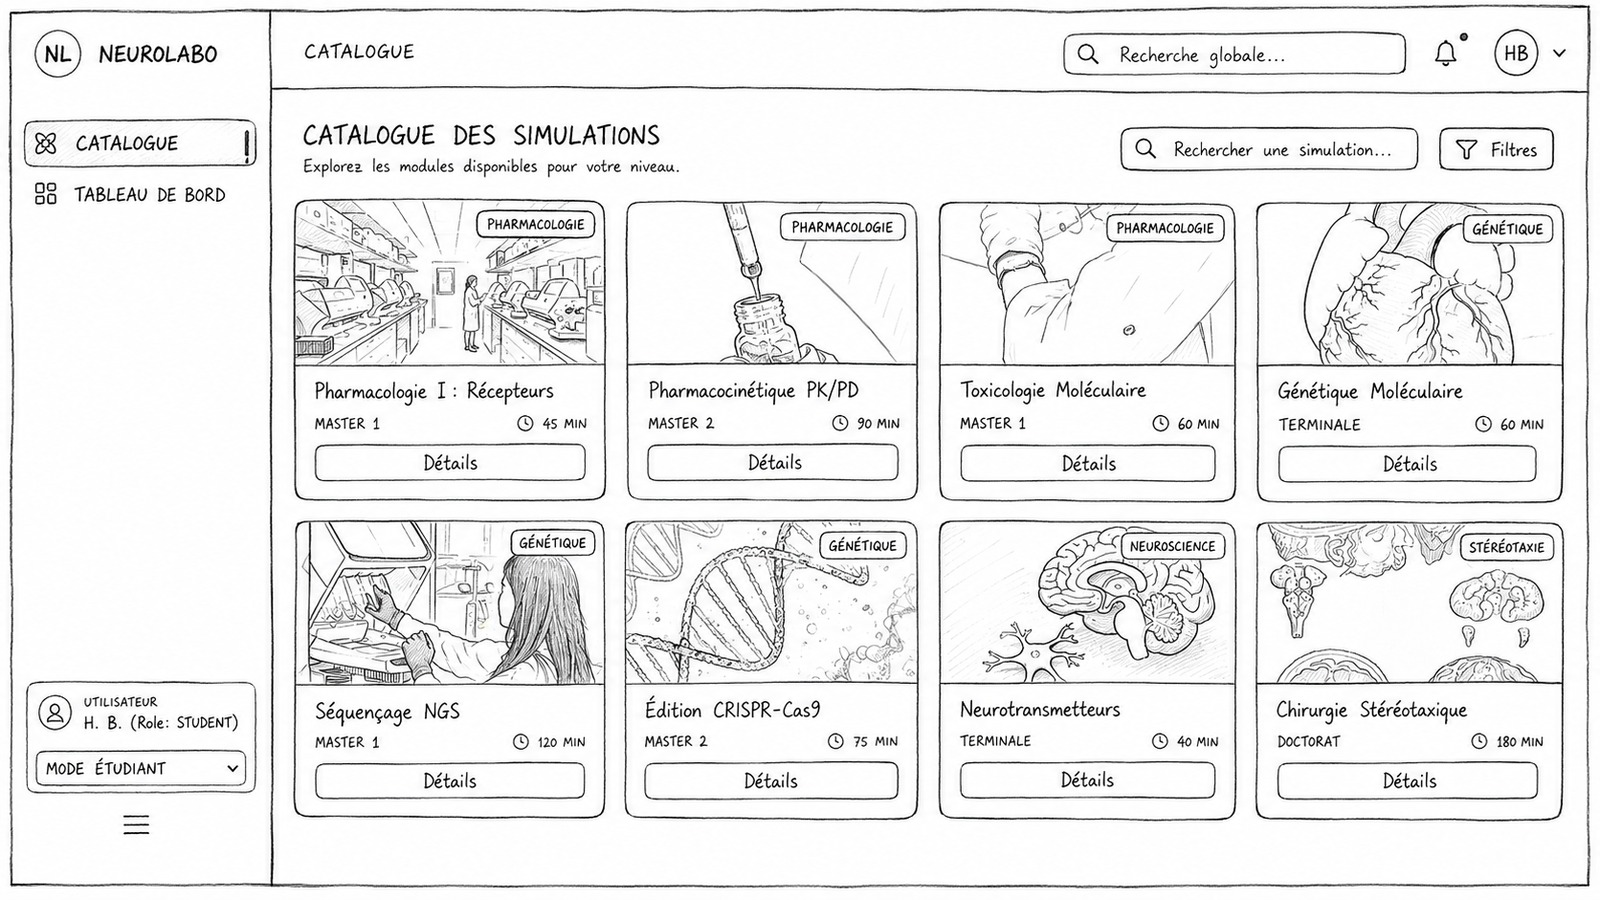
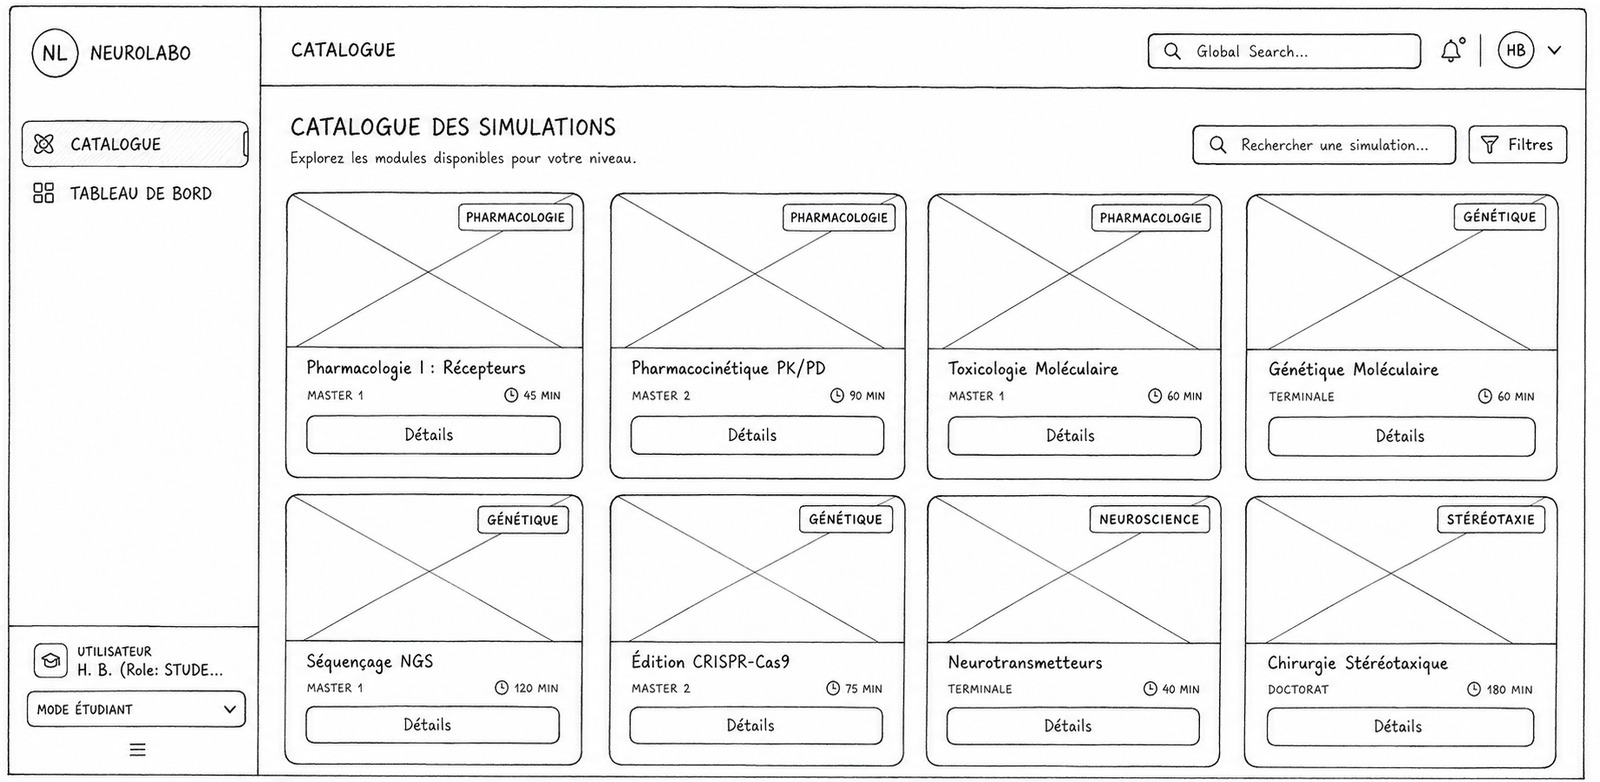
content(comparateur): paire assortie NEUROLABO (wireframe X-boxes + optimisee, meme layout) forcee en 1600x782 identique + conteneur au meme ratio -> concordance parfaite, contenu entier (plus de crop)

Changed region(s): [[0.0, 0.0, 1.0, 1.0], [0.0, 0.3376, 0.0312, 0.491]]

diff --git a/src/app/components/UseCases.tsx b/src/app/components/UseCases.tsx
@@ -118,7 +118,7 @@ function BeforeAfterSlider({ before, after }: { before: string; after: string })
 
   return (
     <div 
-      className="relative w-full aspect-[16/9] cursor-ew-resize overflow-hidden select-none rounded-[16px] border border-border-0 bg-surface-1 shadow-panel"
+      className="relative w-full aspect-[1600/782] cursor-ew-resize overflow-hidden select-none rounded-[16px] border border-border-0 bg-surface-1 shadow-panel"
       onMouseMove={handleMouseMove}
       onTouchMove={handleMouseMove}
     >